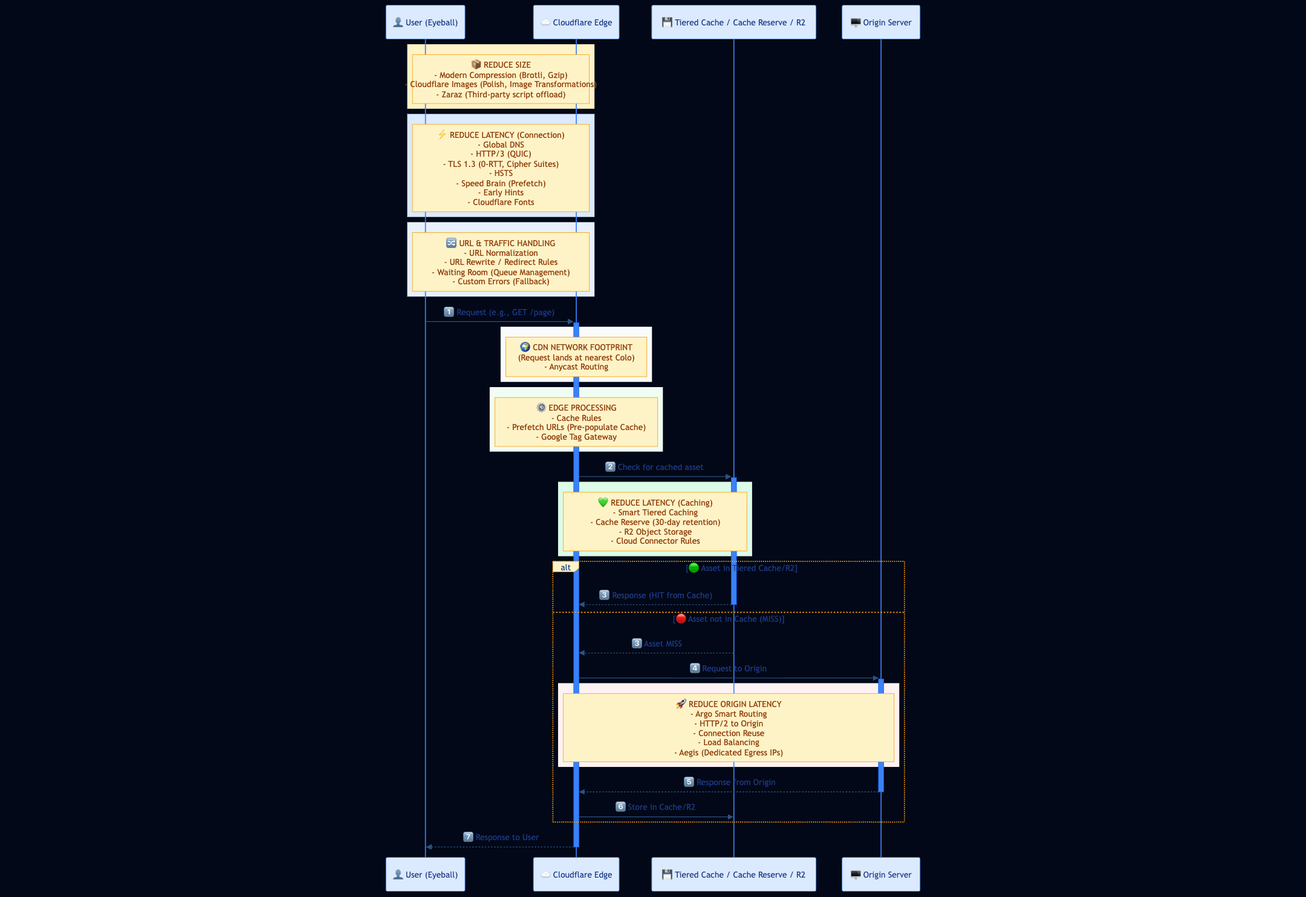
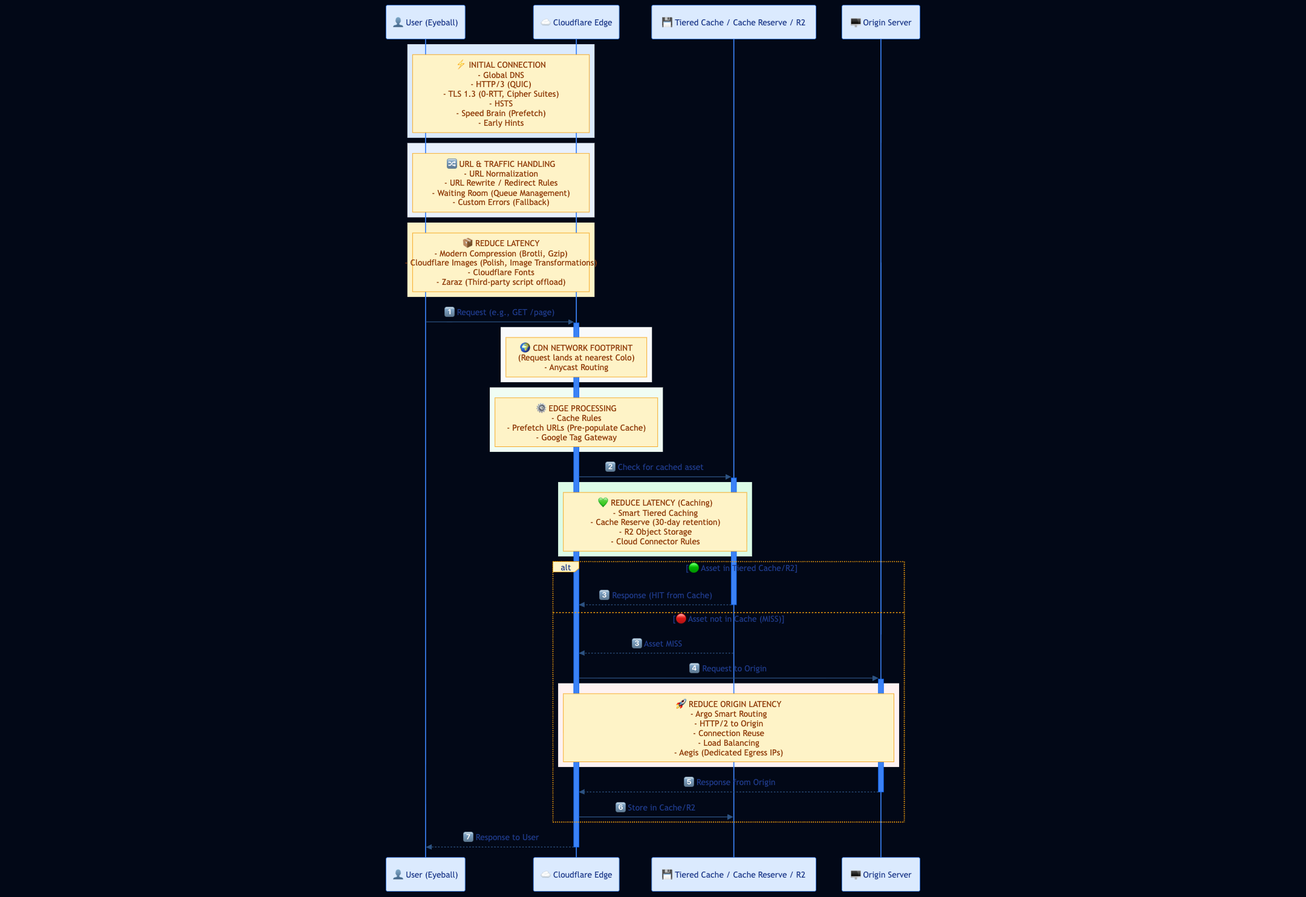
Updates
Improved content layout and mermaid diagram; added references

diff --git a/content/articles/cloudflare-l7-performance-recommendations/index.md b/content/articles/cloudflare-l7-performance-recommendations/index.md
@@ -38,12 +38,12 @@ Effective optimization starts with measuring the _right_ things – which intere
 | **METRIC**                          | **WHAT IT MEASURES**                                                                                                                                                                                                                                                                                                                         | **TARGET (75th Percentile)** |     |     |
 | ----------------------------------- | -------------------------------------------------------------------------------------------------------------------------------------------------------------------------------------------------------------------------------------------------------------------------------------------------------------------------------------------- | ---------------------------- | --- | --- |
 | **Largest Contentful Paint (LCP)**  | Measures loading performance. Marks the point when the largest image or text block in the viewport becomes visible. When optimizing LCP, it's helpful to try to optimize these subparts individually: TTFB (HTML Document), Resource Load Delay (Stylesheet CSS), Resource Load Duration (Images + Scripts), Element Render Delay (Scripts). | LCP < 2.5 seconds            |     |     |
-| **Interaction to Next Paint (INP)** | Measures interactivity. Assesses the overall responsiveness of the page to user clicks, taps, and keyboard inputs.                                                                                                                                                                                                                           | INP < 200 ms ms              |     |     |
-| **Cumulative Layout Shift (CLS)**   | Measures visual stability. Quantifies how much unexpected layout shifts affect the user experience as the page loads.                                                                                                                                                                                                                        | CLS < 0.1 score score        |     |     |
-| **Time to First Byte (TTFB)**       | Measures server responsiveness. It's the time between the client/eyeball request and the arrival of the first byte of the (Cloudflare) server response. A high TTFB will always lead to a poor LCP, but a good TTFB doesn't guarantee a good LCP.                                                                                            | TTFB < 800 ms ms             |     |     |
+| **Interaction to Next Paint (INP)** | Measures interactivity. Assesses the overall responsiveness of the page to user clicks, taps, and keyboard inputs.                                                                                                                                                                                                                           | INP < 200 ms                 |     |     |
+| **Cumulative Layout Shift (CLS)**   | Measures visual stability. Quantifies how much unexpected layout shifts affect the user experience as the page loads.                                                                                                                                                                                                                        | CLS < 0.1 score              |     |     |
+| **Time to First Byte (TTFB)**       | Measures server responsiveness. It's the time between the client/eyeball request and the arrival of the first byte of the (Cloudflare) server response. A high TTFB will always lead to a poor LCP, but a good TTFB doesn't guarantee a good LCP.                                                                                            | TTFB < 800 ms                |     |     |
 | **Time to Last Byte (TTLB)**        | Measures the time it takes until the last byte of a resource is received.                                                                                                                                                                                                                                                                    | TTLB < 1.5 seconds           |     |     |
 
-> _Note that **every browser behaves differently**. Check [Can I use](https://caniuse.com/) for compatibility. For example, Safari doesn't support [LCP](https://caniuse.com/wf-largest-contentful-paint).
+> Note that **every browser behaves differently**. Check [Can I use](https://caniuse.com/) for compatibility. For example, Safari doesn't support [LCP](https://caniuse.com/wf-largest-contentful-paint).
 
 ## Practical Recommendations
 
@@ -59,77 +59,86 @@ Here's a high-level visual representation of the different Cloudflare features t
 
 Many variables affect performance at the user connection stage: device hardware (and age), operating system (OS), CPU/RAM capacity, browser, location, Internet Service Provider (ISP), and more.
 
-The user's [proxied](https://developers.cloudflare.com/dns/proxy-status/) request typically lands at the [closest Cloudflare Point of Presence (PoP)](https://www.cloudflare.com/network/) via [anycast](https://www.cloudflare.com/learning/cdn/glossary/anycast-network/). This is when Cloudflare's [peering and network interconnects](https://bgp.he.net/report/exchanges#_participants) is relevant.
+The user's [proxied](https://developers.cloudflare.com/dns/proxy-status/) request typically lands at the [closest Cloudflare Point of Presence (PoP)](https://www.cloudflare.com/network/) via [anycast](https://www.cloudflare.com/learning/cdn/glossary/anycast-network/). This is where Cloudflare's [peering and network interconnects](https://bgp.he.net/report/exchanges#_participants) is relevant.
 
 Some of the Cloudflare-related features that could potentially improve some of the relevant metrics are:
 
-- **Global DNS**: By using Cloudflare's [managed DNS](https://developers.cloudflare.com/fundamentals/concepts/how-cloudflare-works/#cloudflare-as-a-dns-provider), the assigned anycast IP addresses are announced [worldwide](https://www.cloudflare.com/network/), likely physically close to the user too. Review third-party DNS performance on [dnsperf.com](https://www.dnsperf.com/).
+| Feature                                   | Primary Metrics Improved | Description                                                                                                                                                                                                                                                                                                                                                                                                                                                                                                                                                                                                                                                                                                                                                                              |
+| ----------------------------------------- | ------------------------ | ---------------------------------------------------------------------------------------------------------------------------------------------------------------------------------------------------------------------------------------------------------------------------------------------------------------------------------------------------------------------------------------------------------------------------------------------------------------------------------------------------------------------------------------------------------------------------------------------------------------------------------------------------------------------------------------------------------------------------------------------------------------------------------------- |
+| **Global DNS**                            | TTFB, LCP                | By using Cloudflare's [managed DNS](https://developers.cloudflare.com/fundamentals/concepts/how-cloudflare-works/#cloudflare-as-a-dns-provider), the assigned anycast IP addresses are announced [worldwide](https://www.cloudflare.com/network/), likely physically close to the user too. Review third-party DNS performance on [dnsperf.com](https://www.dnsperf.com/).                                                                                                                                                                                                                                                                                                                                                                                                               |
+| **IPv6**                                  | TTFB                     | By default, [IPv6 compatibility](https://developers.cloudflare.com/network/ipv6-compatibility/) is turned on for your domain and will apply to all domains and subdomains covered by [proxied](https://developers.cloudflare.com/dns/proxy-status/) DNS records.                                                                                                                                                                                                                                                                                                                                                                                                                                                                                                                         |
+| **HTTP/3 (QUIC)**                         | TTFB, LCP                | [HTTP/3 (with QUIC)](https://developers.cloudflare.com/speed/optimization/protocol/http3/) creates faster, more reliable connections, especially for mobile/unreliable networks.                                                                                                                                                                                                                                                                                                                                                                                                                                                                                                                                                                                                         |
+| **0-RTT Connection Resumption**           | TTFB, LCP                | [0-RTT Connection Resumption](https://developers.cloudflare.com/speed/optimization/protocol/0-rtt-connection-resumption/) reduces latency for users who have previously connected to the website.                                                                                                                                                                                                                                                                                                                                                                                                                                                                                                                                                                                        |
+| **TLS 1.3**                               | TTFB, Security           | [TLS 1.3](https://developers.cloudflare.com/ssl/edge-certificates/additional-options/tls-13/) improves performance and security, including [Post-Quantum Cryptography (PQC)](https://developers.cloudflare.com/ssl/post-quantum-cryptography/) support                                                                                                                                                                                                                                                                                                                                                                                                                                                                                                                                   |
+| **HTTP Strict Transport Security (HSTS)** | TTFB, LCP                | [HSTS](https://developers.cloudflare.com/ssl/edge-certificates/additional-options/http-strict-transport-security/) improves performance by implementing a browser-redirect, instead of a server-redirect.                                                                                                                                                                                                                                                                                                                                                                                                                                                                                                                                                                                |
+| **URL Normalization**                     | LCP, Security            | [URL normalization](https://developers.cloudflare.com/rules/normalization/how-it-works/) modifies the URLs of incoming requests so that they conform to a consistent formatting standard; normalizing inbound traffic.                                                                                                                                                                                                                                                                                                                                                                                                                                                                                                                                                                   |
+| **URL Rewrite Rules**                     | LCP                      | Manipulate the URL of a request through different operations, like [URL Rewrite Rules](https://developers.cloudflare.com/rules/transform/url-rewrite/) or [Redirect Rules](https://developers.cloudflare.com/rules/url-forwarding/).                                                                                                                                                                                                                                                                                                                                                                                                                                                                                                                                                     |
+| **Compression Rules**                     | LCP, TTLB                | Configure and overwrite default compression behavior via [Compression Rules](https://developers.cloudflare.com/rules/compression-rules/) for assets to reduce page load times by minimizing the size of text-based content like HTML, CSS, and JavaScript and [others](https://developers.cloudflare.com/speed/optimization/content/compression/).                                                                                                                                                                                                                                                                                                                                                                                                                                       |
+| **Image Optimization**                    | LCP, TTLB                | Use **[Polish](https://developers.cloudflare.com/images/polish/)** or (recommended) **Image Transformations** for optimization of images ([resize](https://developers.cloudflare.com/images/transform-images/), [draw overlays and watermarks](https://developers.cloudflare.com/images/transform-images/draw-overlays/), implement [lazy loading](https://developers.cloudflare.com/images/tutorials/optimize-mobile-viewing/), [make responsive images](https://developers.cloudflare.com/images/transform-images/make-responsive-images/) with `srcset`, using [parameters](https://developers.cloudflare.com/images/transform-images/transform-via-url/#options) like `width=auto` and `format=auto` among others, etc.) to ensure faster loading with potential full customization. |
+| **Speed Brain (Prefetching)**             | LCP, TTFB                | Implement **[Speed Brain](https://developers.cloudflare.com/speed/optimization/content/speed-brain/)** (Speculation Rules API) for proactive browser fetching of frequently requested resources (that are cached on the Cloudflare Edge) to enhance key metrics like LCP, TTFB and overall page load time.                                                                                                                                                                                                                                                                                                                                                                                                                                                                               |
+| **Early Hints**                           | LCP, TTFB                | **[Early Hints](https://developers.cloudflare.com/cache/advanced-configuration/early-hints/)** takes advantage of _"server think time"_ to asynchronously send instructions to the browser to begin loading resources (render the page) while the origin server is compiling the full response. This hinting, when the response contains link headers with `preconnect` or `preload` `rel` types, speeds up page load times and generally [reduces user-perceived latency](https://blog.cloudflare.com/early-hints/).                                                                                                                                                                                                                                                                    |
+| **Zaraz**                                 | INP, Security            | Use **[Zaraz](https://developers.cloudflare.com/zaraz/)** to offload third-party tools and services, such as [Google Analytics 4 or Mixpanel](https://developers.cloudflare.com/zaraz/reference/supported-tools/), to the cloud and improve the speed – specifically [Total Blocking Time](https://blog.cloudflare.com/cloudflare-acquires-zaraz-to-enable-cloud-loading-of-third-party-tools/), impacting INP –, and security of your website.                                                                                                                                                                                                                                                                                                                                          |
 
-- **Protocols**: Use modern protocols such as **[HTTP/3 (with QUIC)](https://developers.cloudflare.com/speed/optimization/protocol/http3/)** for faster, more reliable connections. This improves latency, especially in mobile or unreliable network environments. Also enable [0-RTT Connection Resumption](https://developers.cloudflare.com/speed/optimization/protocol/0-rtt-connection-resumption/) to improve performance for clients who have previously connected to your website, reducing latency for returning users. Additionally, enable [TLS 1.3](https://developers.cloudflare.com/ssl/edge-certificates/additional-options/tls-13/) for improved performance, as well as improved security, especially in the context of [Post-Quantum Cryptography (PQC)](https://developers.cloudflare.com/ssl/post-quantum-cryptography/). If possible, also support modern [Cipher Suites](https://developers.cloudflare.com/ssl/edge-certificates/additional-options/cipher-suites/). Moreover, you might want to prevent clients connecting via unencrypted/plaintext HTTP, so you [enforce HTTPS connections](https://developers.cloudflare.com/ssl/edge-certificates/encrypt-visitor-traffic/). And even [HSTS](https://developers.cloudflare.com/ssl/edge-certificates/additional-options/http-strict-transport-security/) could improve performance by implementing a browser-redirect, instead of a server-redirect.
+> Prevent clients connecting via unencrypted/plaintext HTTP, by [enforcing HTTPS connections](https://developers.cloudflare.com/ssl/edge-certificates/encrypt-visitor-traffic/).
 
-> Automate TLS certificate renewal with [Advanced Certificate Manager (ACM)](https://developers.cloudflare.com/ssl/edge-certificates/advanced-certificate-manager/).
-
-- **Normalizing Inbound Traffic**: **[URL normalization](https://developers.cloudflare.com/rules/normalization/how-it-works/)** modifies the URLs of incoming requests so that they conform to a consistent formatting standard.
-
-- **Manipulate URLs**: Take advantage of [URL Rewrite Rules](https://developers.cloudflare.com/rules/transform/url-rewrite/) or [Redirect Rules](https://developers.cloudflare.com/rules/url-forwarding/).
-
-- **Compression**: Configure and overwrite default compression behavior via [Compression Rules](https://developers.cloudflare.com/rules/compression-rules/) for assets to reduce page load times by minimizing the size of text-based content like HTML, CSS, and JavaScript and [others](https://developers.cloudflare.com/speed/optimization/content/compression/).
-
-- **Image Optimization**: Use **[Polish](https://developers.cloudflare.com/images/polish/)** or (recommended) **Image Transformations** for optimization of images ([resize](https://developers.cloudflare.com/images/transform-images/), [draw overlays and watermarks](https://developers.cloudflare.com/images/transform-images/draw-overlays/), implement [lazy loading](https://developers.cloudflare.com/images/tutorials/optimize-mobile-viewing/), [make responsive images](https://developers.cloudflare.com/images/transform-images/make-responsive-images/) with `srcset`, using [parameters](https://developers.cloudflare.com/images/transform-images/transform-via-url/#options) like `width=auto` and `format=auto` among others, etc.) to ensure faster loading with potential full customization.
+> Automate TLS certificate renewal with [Advanced Certificate Manager (ACM)](https://developers.cloudflare.com/ssl/edge-certificates/advanced-certificate-manager/) and customize [Cipher Suites](https://developers.cloudflare.com/ssl/edge-certificates/additional-options/cipher-suites/).
 
 > Check out this [simple Image Transformation demo](https://automatic-demo.com/demos/performance/image-transformation).
 
-- **Speed Brain Prefetching**: Implement **[Speed Brain](https://developers.cloudflare.com/speed/optimization/content/speed-brain/)** (Speculation Rules API) for proactive browser fetching of frequently requested resources (that are cached on the Cloudflare Edge) to enhance key metrics like LCP, TTFB and overall page load time.
-
-- **Asynchronous instructions for the Browser**: **[Early Hints](https://developers.cloudflare.com/cache/advanced-configuration/early-hints/)** takes advantage of "server think time" to asynchronously send instructions to the browser to begin loading resources (render the page) while the origin server is compiling the full response. This hinting, when the response contains link headers with `preconnect` or `preload` `rel` types, speeds up page load times and generally [reduces user-perceived latency](https://blog.cloudflare.com/early-hints/).
-
-- **Third-party Script Offload**: Use **[Zaraz](https://developers.cloudflare.com/zaraz/)** to offload third-party tools and services, such as [Google Analytics 4 or Mixpanel](https://developers.cloudflare.com/zaraz/reference/supported-tools/), to the cloud and improve the speed – specifically [Total Blocking Time](https://blog.cloudflare.com/cloudflare-acquires-zaraz-to-enable-cloud-loading-of-third-party-tools/), impacting INP –, and security of your website.
-
 ### Cloudflare Edge (Anycast)
 
-The relevant Cloudflare features are:
-
-- **Customized Caching**: Define precise **[Cache Rules](https://developers.cloudflare.com/cache/how-to/cache-rules/)** or **[Origin Cache Control Headers](https://developers.cloudflare.com/cache/concepts/cache-control/)** to control which resources are cached and for how long, optimizing caching and reducing the need to fetch assets from the origin server.
+| Feature                                | Primary Metrics Improved                | Description                                                                                                                                                                                                                                                                                                                                                                                                                                                                                                                                                     |
+| -------------------------------------- | --------------------------------------- | --------------------------------------------------------------------------------------------------------------------------------------------------------------------------------------------------------------------------------------------------------------------------------------------------------------------------------------------------------------------------------------------------------------------------------------------------------------------------------------------------------------------------------------------------------------- |
+| **Caching**                            | Cache Hit Ratio, TTFB, LCP, Origin Load | Define precise [Cache Rules](https://developers.cloudflare.com/cache/how-to/cache-rules/) or [Origin Cache Control Headers](https://developers.cloudflare.com/cache/concepts/cache-control/) to control which resources are cached and for how long, optimizing caching and reducing the need to fetch assets from the origin server.                                                                                                                                                                                                                           |
+| **Cloudflare Fonts**                   | LCP                                     | Leverage [Cloudflare Fonts](https://developers.cloudflare.com/speed/optimization/content/fonts/) to reduce the time spent on [DNS lookups and TLS connections](https://blog.cloudflare.com/cloudflare-fonts-enhancing-website-privacy-speed/), improving LCP, by replacing Google Fonts links with inline CSS to load directly from the same website domain.                                                                                                                                                                                                    |
+| **Google Tag Gateway for Advertisers** | LCP, INP                                | Deploy Google scripts using your own domain with [Google tag gateway for advertisers](https://developers.cloudflare.com/google-tag-gateway/), enhancing data privacy and improving signal measurement recovery and ad measurement.                                                                                                                                                                                                                                                                                                                              |
+| **Waiting Room**                       | Availability, UX (preventing overload)  | By using [Waiting Room](https://developers.cloudflare.com/waiting-room/), also relevant for [preparing for surges or spikes in web traffic](https://developers.cloudflare.com/learning-paths/surge-readiness/concepts/).                                                                                                                                                                                                                                                                                                                                        |
+| **Argo Smart Routing**                 | TTFB                                    | Enable [Argo Smart Routing](https://developers.cloudflare.com/argo-smart-routing/) to route requests over the fastest and most reliable paths (between the first Cloudflare PoP and the closest Cloudflare PoP to your origin server), minimizing latency (reducing TTFB) and ensuring faster connections. This is mainly beneficial for dynamic requests such as API requests.                                                                                                                                                                                 |
+| **Prefetch URLs**                      | Cache Hit Ratio, TTFB, LCP              | Pre-populate the Cloudflare Edge Cache with [Prefetch URLs](https://developers.cloudflare.com/speed/optimization/content/prefetch-urls/) to increase the Cache Hit Ratio and reduce latency to critical resources (which can be [cached by default](https://developers.cloudflare.com/cache/concepts/default-cache-behavior/#default-cached-file-extensions)), by including a link HTTP response header pointing to a manifest file with the `rel="prefetch"` attribute and then serve the manifest file with `text/plain` as the content-type response header. |
+| **Custom Errors**                      | Availability, UX                        | Implement fallback strategies for potential origin server or Cloudflare product errors by leveraging [Custom Errors](https://developers.cloudflare.com/rules/custom-errors/). This allows serving custom assets or maintenance pages to users, providing a consistent brand experience.                                                                                                                                                                                                                                                                         |
 
 > Note the [default cache behavior](https://developers.cloudflare.com/cache/concepts/default-cache-behavior/) and [cacheable size limits](https://developers.cloudflare.com/cache/concepts/default-cache-behavior/#cacheable-size-limits). Programmatic customization is possible via [Snippets and Workers](https://developers.cloudflare.com/rules/snippets/when-to-use/).
 
 > For mainland China CDN, consider [China Network](https://developers.cloudflare.com/china-network/), when all requirements are met.
 
-- **Faster Google Fonts**: Leverage [Cloudflare Fonts](https://developers.cloudflare.com/speed/optimization/content/fonts/) to reduce the time spent on [DNS lookups and TLS connections](https://blog.cloudflare.com/cloudflare-fonts-enhancing-website-privacy-speed/), improving LCP, by replacing Google Fonts links with inline CSS to load directly from the same website domain.
-
-- **Improve (Google) Ad Measurement**: deploy Google scripts using your own domain with [Google tag gateway for advertisers](https://developers.cloudflare.com/google-tag-gateway/), enhancing data privacy and improving signal measurement recovery.
-
-- **Queueing in Users**: By using [Waiting Room](https://developers.cloudflare.com/waiting-room/), also relevant for [preparing for surges or spikes in web traffic](https://developers.cloudflare.com/learning-paths/surge-readiness/concepts/).
-
-- **Smart Routing**: Enable **[Argo Smart Routing](https://developers.cloudflare.com/argo-smart-routing/)** to route requests over the fastest and most reliable paths (between the first Cloudflare PoP and the closest Cloudflare PoP to your origin server), minimizing latency (reducing TTFB) and ensuring faster connections. This is mainly beneficial for dynamic requests such as API requests.
-
-- **Pre-populate the Edge Cache**: Use [Prefetch URLs](https://developers.cloudflare.com/speed/optimization/content/prefetch-urls/) to increase the Cache Hit Ratio and reduce latency to critical resources (which can be [cached by default](https://developers.cloudflare.com/cache/concepts/default-cache-behavior/#default-cached-file-extensions)), by including a link HTTP response header pointing to a manifest file with the `rel="prefetch"` attribute and then serve the manifest file with `text/plain` as the content-type response header.
-
-- **Error Handling**: Implement fallback strategies for potential origin server or Cloudflare product errors by leveraging [Custom Errors](https://developers.cloudflare.com/rules/custom-errors/). This allows serving custom assets or maintenance pages to users, providing a consistent brand experience.
-
 ### Cloudflare Edge (Tiered Cache / Storage)
 
-- **Tiered Caching**: Leverage a **[Tiered Caching Topology](https://developers.cloudflare.com/cache/how-to/tiered-cache/)** to ensure that assets are served from a hierarchy of Cloudflare PoPs, increasing [Cache Hit Ratio](https://developers.cloudflare.com/cache/performance-review/cache-analytics/), reducing latency, potentially saving bandwidth and load on the origin server, and improving response times for users (since optimally there's no additional network hop to the origin). Smart Tiered Caching is normally the recommended option.
-
-- **Cache Reserve**: since Cloudflare's CDN is based on the algorithm [Least Recently Used (LRU)](https://developers.cloudflare.com/cache/concepts/retention-vs-freshness/), enable **[Cache Reserve](https://developers.cloudflare.com/cache/advanced-configuration/cache-reserve/)** to serve less-frequently requested content from Cloudflare's global storage, due to a retention period of 30 days, ensuring better content availability, increased Cache Hit Ratio, and reduced origin server load. It is recommended to use Cache Reserve in combination with Tiered Caching, as part of a wider caching topology.
-
-- **Connection Reuse**: taking advantage of HTTP/2, requests from Cloudflare can use the same connection – [connection reuse](https://developers.cloudflare.com/smart-shield/concepts/connection-reuse/) – even if they are for different domains, reducing the amount of connections – TCP and TLS handshakes –, improve overall performance, and reduce the load to the origin server.
-
-- **Simplify cloud routing and object storage configurations**: route matching incoming traffic from your website to a public cloud provider that you define with [Cloud Connector Rules](https://developers.cloudflare.com/rules/cloud-connector/).
-
-- **Data or Storage Options at the Edge**: Store assets or data in different [data or storage options](https://developers.cloudflare.com/workers/platform/storage-options/), such as **[Cloudflare R2](https://developers.cloudflare.com/r2/how-r2-works/)**, a distributed object storage solution, offering [faster retrieval](https://developers.cloudflare.com/r2/how-r2-works/#performance) and potential cost savings. Depending on your use case, different options are available.
+| Feature                     | Primary Metrics Improved                | Description                                                                                                                                                                                                                                                                                                                                                                                                                                                                                                                                                                                       |
+| --------------------------- | --------------------------------------- | ------------------------------------------------------------------------------------------------------------------------------------------------------------------------------------------------------------------------------------------------------------------------------------------------------------------------------------------------------------------------------------------------------------------------------------------------------------------------------------------------------------------------------------------------------------------------------------------------- |
+| **Tiered Caching**          | Cache Hit Ratio, TTFB, LCP, Origin Load | Leverage a **[Tiered Caching Topology](https://developers.cloudflare.com/cache/how-to/tiered-cache/)** to ensure that assets are served from a hierarchy of Cloudflare PoPs, increasing [Cache Hit Ratio](https://developers.cloudflare.com/cache/performance-review/cache-analytics/), reducing latency, potentially saving bandwidth and load on the origin server, and improving response times for users (since optimally there's no additional network hop to the origin). Smart Tiered Caching is normally the recommended option.                                                          |
+| **Cache Reserve**           | Cache Hit Ratio, TTFB, Origin Load      | Since Cloudflare's CDN is based on the algorithm [Least Recently Used (LRU)](https://developers.cloudflare.com/cache/concepts/retention-vs-freshness/), enable [Cache Reserve](https://developers.cloudflare.com/cache/advanced-configuration/cache-reserve/) to serve less-frequently requested content from Cloudflare's global storage, due to a retention period of 30 days, ensuring better content availability, increased Cache Hit Ratio, and reduced origin server load. It is recommended to use Cache Reserve in combination with Tiered Caching, as part of a wider caching topology. |
+| **Connection Reuse**        | TTFB, Origin Load                       | Taking advantage of HTTP/2, requests from Cloudflare can use the same connection – [connection reuse](https://developers.cloudflare.com/smart-shield/concepts/connection-reuse/) – even if they are for different domains, reducing the number of connections – TCP and TLS handshakes – improving overall performance and reducing the load to the origin server.                                                                                                                                                                                                                                |
+| **Cloud Connector Rules**   | TTFB, Origin Load (routing efficiency)  | Simplify cloud routing and object storage configurations by routing matching incoming traffic from your website to a public cloud provider that you define with [Cloud Connector Rules](https://developers.cloudflare.com/rules/cloud-connector/).                                                                                                                                                                                                                                                                                                                                                |
+| **Data or Storage Options** | TTFB, LCP, Origin Load, Cost            | Store assets or data in different [data or storage options](https://developers.cloudflare.com/workers/platform/storage-options/), such as **[Cloudflare R2](https://developers.cloudflare.com/r2/how-r2-works/)**, a distributed object storage solution, offering [faster retrieval](https://developers.cloudflare.com/r2/how-r2-works/#performance) and potential cost savings. Depending on your use case, different options are available.                                                                                                                                                    |
 
 ### Origin Server
 
 > There's the alternative option of going serverless / originless by building and hosting directly on Cloudflare's [Developer Platform](https://developers.cloudflare.com/learning-paths/workers/devplat/intro-to-devplat/), such as Workers [Static Assets](https://developers.cloudflare.com/workers/static-assets/) or [Frameworks](https://developers.cloudflare.com/workers/framework-guides/). Here's an example of [fullstack applications](https://developers.cloudflare.com/reference-architecture/diagrams/serverless/fullstack-application/).
 
-- **Reduce Origin Latency**: Use **[HTTP/2 to Origin](https://developers.cloudflare.com/speed/optimization/protocol/http2-to-origin/)** and connection multiplexing to minimize origin server latency and reduce page load times.
+| Feature                                       | Primary Metrics Improved        | Description                                                                                                                                                                                                                                                                         |
+| --------------------------------------------- | ------------------------------- | ----------------------------------------------------------------------------------------------------------------------------------------------------------------------------------------------------------------------------------------------------------------------------------- |
+| **HTTP/2 to Origin**                          | TTFB, Origin Load, TTLB         | Use [HTTP/2 to Origin](https://developers.cloudflare.com/speed/optimization/protocol/http2-to-origin/) and connection multiplexing to minimize origin server latency and reduce page load times.                                                                                    |
+| **Load Balancing**                            | TTFB, Availability, Origin Load | Implement effective [load balancing](https://developers.cloudflare.com/load-balancing/understand-basics/proxy-modes/) to distribute traffic evenly across multiple origin servers / endpoints, ensuring high availability and reliability.                                          |
+| **Dedicated CDN egress IP addresses (Aegis)** | Security, Availability          | [Dedicated CDN egress IP addresses (Aegis)](https://developers.cloudflare.com/aegis/) for IP allowlisting on the origin server. This is one of several [options to protect the origin server](https://developers.cloudflare.com/fundamentals/security/protect-your-origin-server/). |
 
-- **Load Balancing**: Implement effective **[load balancing](https://developers.cloudflare.com/load-balancing/understand-basics/proxy-modes/)** to distribute traffic evenly across multiple origin servers / endpoints, ensuring high availability and reliability.
+> An alternative to Load Balancing is [Round-Robin DNS](https://developers.cloudflare.com/dns/manage-dns-records/how-to/round-robin-dns/), a simpler approach that randomly distributes traffic across multiple servers based on DNS records.
 
-- **Improve Origin Security**: [dedicated CDN egress IP addresses (Aegis)](https://developers.cloudflare.com/aegis/). This is one of several [options to protect the origin server](https://developers.cloudflare.com/fundamentals/security/protect-your-origin-server/).
+## Summary: Features by Target Metric
 
-## Monitorting & Testing Tools
+| To Improve             | Key Features                                                                         |
+| ---------------------- | ------------------------------------------------------------------------------------ |
+| **⚡ TTFB**            | Global DNS, HTTP/3, TLS 1.3, 0-RTT, Argo Smart Routing, Tiered Caching, Early Hints  |
+| **🎨 LCP**             | Compression, Image Optimization, Speed Brain, Early Hints, Cloudflare Fonts, Caching |
+| **🖱 INP**             | Zaraz (offload third-party scripts), Google Tag Gateway                              |
+| **📐 CLS**             | Image Optimization (explicit dimensions), Cloudflare Fonts                           |
+| **💾 Cache Hit Ratio** | Cache Rules, Tiered Caching, Cache Reserve, Prefetch URLs                            |
+| **🖥 Origin Load**     | All caching features, Connection Reuse, Load Balancing                               |
+
+## Monitoring & Testing Tools
+
+For more detailed investigations within Cloudflare, review [Cache Analytics](https://developers.cloudflare.com/cache/performance-review/cache-analytics/), [Instant Logs](https://developers.cloudflare.com/logs/instant-logs/), [GraphQL Analytics API](https://developers.cloudflare.com/analytics/graphql-api/), [Log Explorer](https://developers.cloudflare.com/log-explorer/), or [Logpush](https://developers.cloudflare.com/logs/logpush/).
+
+> In Log Explorer and Logpush check for relevant [HTTP request fields](https://developers.cloudflare.com/logs/logpush/logpush-job/datasets/zone/http_requests/), such as `EdgeTimeToFirstByteMs`, `CacheCacheStatus`, `CacheTieredFill`, `ClientTCPRTTMs`, `OriginDNSResponseTimeMs`, `OriginResponseDurationMs`, and `OriginTCPHandshakeDurationMs`.
 
 - [Cloudflare Observatory](https://dash.cloudflare.com/?to=/:account/:zone/speed/overview) – [Developer documentation](https://developers.cloudflare.com/speed/observatory/)
 - [Web Analytics](https://developers.cloudflare.com/web-analytics/)

diff --git a/content/articles/cloudflare-l7-security-recommendations/index.md b/content/articles/cloudflare-l7-security-recommendations/index.md
@@ -708,6 +708,10 @@ Available Options:
 
 For more guidance on avoiding Cloudflare TLS termination and decryption, visit the [Cloudflare Data Localization FAQ](https://developers.cloudflare.com/data-localization/faq/#are-there-other-options-if-i-prefer-not-to-have-cloudflare-handle-tls-termination-decryption).
 
+## Performance Matters Too!
+
+For application performance recommendations, see: [General Application Performance Recommendations](/articles/cloudflare-l7-performance-recommendations/).
+
 ---
 
 ## Disclaimer
